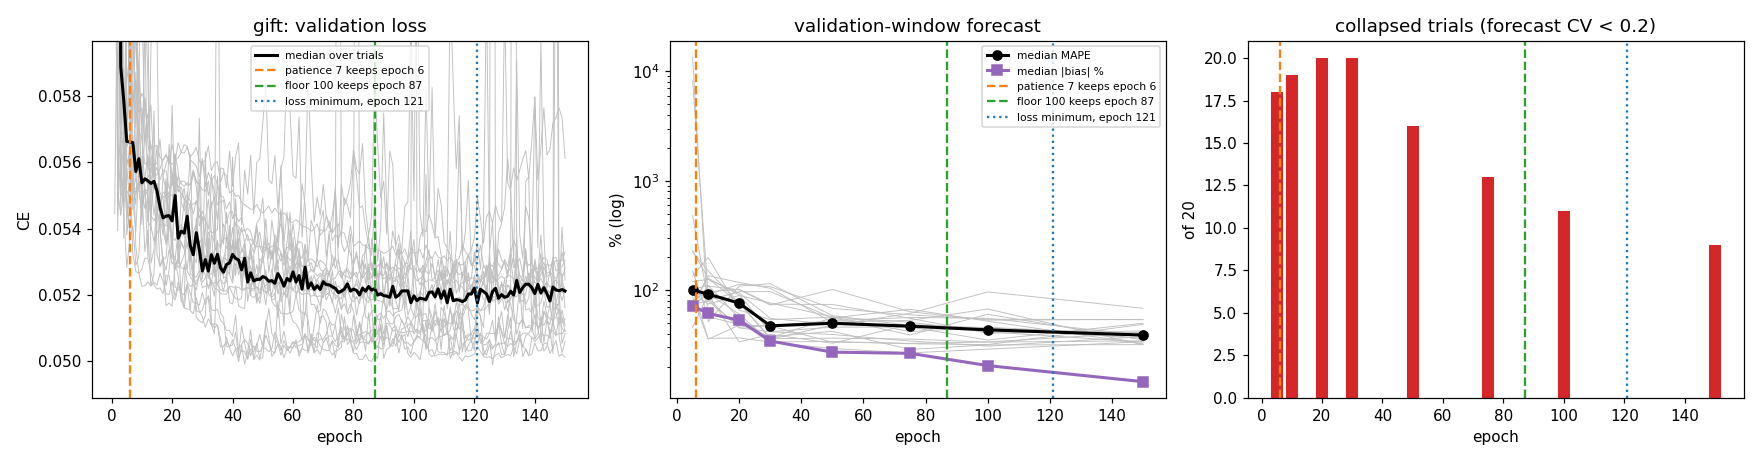
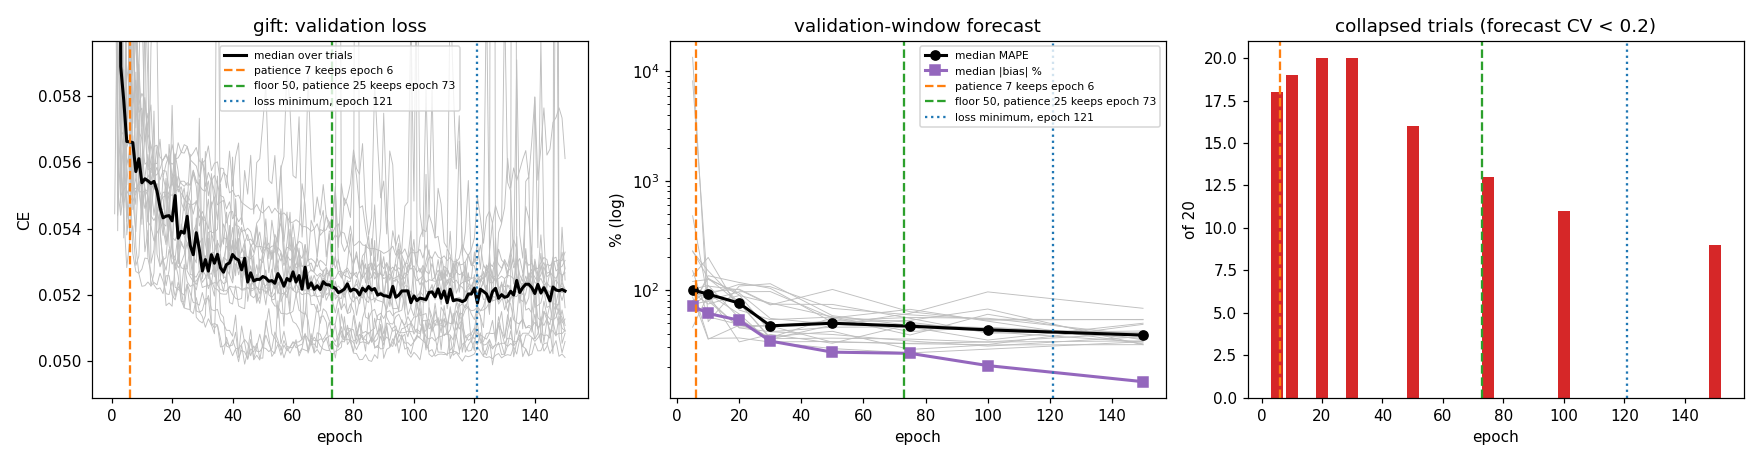
hyperparameter-search §5.2: state the stopping rule before scoring it (cheapest floor x patience ending the median run within 1% of its loss minimum, from the validation loss alone: floor 50, patience 25), then check it against the validation forecast; the earlier floor-100 pick was read off that fo

diff --git a/scripts/run_epoch_probe.py b/scripts/run_epoch_probe.py
@@ -203,7 +203,8 @@ def check_complete() -> int:
 # ---------------------------------------------------------------------------
 
 
-def replay_stopping(val: np.ndarray, floor: int = 0) -> tuple[int, int]:
+def replay_stopping(val: np.ndarray, floor: int = 0,
+                    patience: int = PATIENCE) -> tuple[int, int]:
     """(stop epoch, kept epoch), 1-based, under `fit_model`'s rule with `min_epochs=floor`."""
     best, best_epoch, waited = np.inf, 0, 0
     for e, v in enumerate(val, start=1):
@@ -211,13 +212,15 @@ def replay_stopping(val: np.ndarray, floor: int = 0) -> tuple[int, int]:
             best, best_epoch, waited = v, e, 0
         else:
             waited += 1
-        if e >= floor and waited >= PATIENCE:
+        if e >= floor and waited >= patience:
             return e, best_epoch
     return len(val), best_epoch
 
 
-# The floor the probe proposes (§5.1), drawn against the current rule in the figures.
-PROPOSED_FLOOR = 100
+# The stopping rule chosen from the validation loss alone (§5.2): the cheapest floor and
+# patience that end the median run within 1% of its own loss minimum on every panel.
+# Drawn against the current rule in the figures.
+PROPOSED_FLOOR, PROPOSED_PATIENCE = 50, 25
 
 
 def first_stable(epochs: list[int], rhos: list[float], level: float = 0.8) -> float:
@@ -293,7 +296,8 @@ def report(out_dir: Path) -> None:
 
         # Where each stopping rule would end, replayed on the recorded curves.
         kept_now = int(np.median([replay_stopping(h.val_loss.values)[1] for h in hist.values()]))
-        kept_new = int(np.median([replay_stopping(h.val_loss.values, PROPOSED_FLOOR)[1]
+        kept_new = int(np.median([replay_stopping(h.val_loss.values, PROPOSED_FLOOR,
+                                                  PROPOSED_PATIENCE)[1]
                                   for h in hist.values()]))
         own_best = int(pt.best.median())
         B = pd.DataFrame({t: r.set_index("epoch").bias_percent.abs() for t, r in roll.items()})
@@ -312,7 +316,8 @@ def report(out_dir: Path) -> None:
             a.axvline(kept_now, color="tab:orange", ls="--",
                       label=f"patience 7 keeps epoch {kept_now}")
             a.axvline(kept_new, color="tab:green", ls="--",
-                      label=f"floor {PROPOSED_FLOOR} keeps epoch {kept_new}")
+                      label=f"floor {PROPOSED_FLOOR}, patience {PROPOSED_PATIENCE} "
+                            f"keeps epoch {kept_new}")
             a.axvline(own_best, color="tab:blue", ls=":", label=f"loss minimum, epoch {own_best}")
         # The first epochs sit orders of magnitude above the rest; scale to what follows
         # them so the late differences between trials are visible.
@@ -331,6 +336,32 @@ def report(out_dir: Path) -> None:
     table = pd.DataFrame(rows).set_index("panel").T
     print(table.to_string())
     table.to_csv(out_dir / "summary.csv")
+
+    # The stopping rule from the validation loss alone (§5.2): replay every floor x
+    # patience on the recorded curves; a setting passes if, on every panel, the median run
+    # ends within 1% of its own loss minimum; choose the cheapest by epochs trained.
+    curves = {(panel, t): pd.read_csv(suite_dir(panel, t) / "history.csv").val_loss.values
+              for panel in PANELS for t in range(N_TRIALS)
+              if (suite_dir(panel, t) / "results.csv").exists()}
+    grid = []
+    for floor in (0, 30, 50, 75, 100, 150):
+        for patience in (7, 15, 25, 40):
+            row, cost = {"floor": floor, "patience": patience}, []
+            for panel in PANELS:
+                runs = [(v, replay_stopping(v, floor, patience))
+                        for (p, _), v in curves.items() if p == panel]
+                row[panel] = float(np.median([(v[kept - 1] - v.min()) / v.min() * 100
+                                              for v, (_, kept) in runs]))
+                cost += [stop for _, (stop, _) in runs]
+            row["passes"] = all(row[p] <= 1.0 for p in PANELS)
+            row["epochs trained"] = float(np.mean(cost))
+            grid.append(row)
+    grid = pd.DataFrame(grid)
+    print("\nStopping rule from the validation loss alone: % above each run's own loss minimum")
+    print(grid.round(2).to_string(index=False))
+    chosen = grid[grid.passes].sort_values("epochs trained").iloc[0]
+    print(f"cheapest passing: floor {int(chosen.floor)}, patience {int(chosen.patience)}")
+    grid.to_csv(out_dir / "stopping_rule_grid.csv", index=False)
 
     pred = pd.DataFrame(predict)
     print("\nDoes CE at epoch t predict the final validation rollout (epoch 150)?")

diff --git a/docs/hyperparameter-search.md b/docs/hyperparameter-search.md
@@ -320,12 +320,8 @@ final rollout poorly (ρ −0.2 to +0.6): forecasts reorder as training goes on.
   warm-up of 3 judges trials 20–70 epochs before their CE ranking settles, on a number
   that does not predict the forecast on two of four panels. Test 2 becomes current rule
   against no pruning; Hyperband only with `min_resource` ≥ 50.
-- **Floor (test 1): about 100 epochs on electronics, gift and multichannel.** That is
-  where the forecast stops improving and close to where the loss reaches its own best
-  (121–138), so with the floor the CE-selected epoch lands where the forecast is good.
-- **CDNOW needs less.** Its forecast is best at 30–50 and worse by 100. One floor for all
-  four panels cannot be right; test 1 should use 100 on the three two-year panels and
-  about 30 on CDNOW, or report CDNOW separately.
+- **Floor and patience (test 1): set in §5.2** by a rule on the validation loss alone,
+  which picks floor 50 with patience 25.
 
 Limits: ValendinLSTM only; 20 trials, so a single correlation carries about ±0.4; the
 rollouts are of the trained weights without the ADR-0008 refit; the archive search
@@ -352,21 +348,34 @@ before they are cited in the thesis.
 
 #### The procedure, applied
 
-1. **Pruning: off.** Its own assumption fails on the validation data.
-2. **Stopping rule from the validation loss alone.** Replaying `fit_model`'s rule on the
-   80 probe curves, patience 7 with no floor stops runs 3–7% above their own loss minimum;
-   a floor of 100 epochs with patience 7 brings every panel within 0.7%. The floor only
-   delays stopping and never forces late weights, so the epoch kept is still the one with
-   the lowest validation loss (65 on CDNOW, where the loss turns back up after that).
-3. **Check against the validation-window forecast**, still calibration data: does the rule
-   chosen on the loss land where the forecast is good?
+Each decision is a rule stated before its result is looked at, and uses calibration data
+only.
+
+1. **Pruner — rule: prune on CE only once the CE ranking of trials has settled and early
+   CE predicts the final validation forecast.** Uses the validation-loss curves and the
+   validation-window rollouts. The ranking settles at epoch 24–76, and early CE predicts
+   the final forecast on multichannel only (§5.1). **Decision: pruning off.**
+2. **Stopping rule — rule: the cheapest floor and patience under which, on every panel,
+   the median run ends within 1% of its own validation-loss minimum.** Uses the
+   validation-loss curves only: `fit_model`'s rule is replayed on the 80 recorded curves
+   for floors {0, 30, 50, 75, 100, 150} × patience {7, 15, 25, 40}, and cost is the mean
+   number of epochs trained. Patience 7 with no floor ends runs 3–7% above their minimum
+   and fails on every panel. Twelve settings pass; the cheapest is **floor 50, patience
+   25** (83 epochs per run on average). Floor 100 with patience 7, proposed earlier from
+   the forecast table, also passes (102 epochs).
+3. **Check — only afterwards — against the validation-window forecast.** Still
+   calibration data, but not used to choose.
+
+An earlier draft of this section proposed floor 100 after reading the validation-forecast
+table, then checked it against the same table. That check was not independent of the
+choice; the loss-only rule above is.
 
 #### The curves
 
 Each figure: left, the validation loss of the 20 trials (grey) and their median (black);
 middle, the median validation-window MAPE and |bias| (trials in grey); right, how many of
 the 20 trials have collapsed (forecast CV < 0.2). Dashed lines mark the median epoch kept
-by the current rule (orange) and by the floor-100 rule (green); the dotted line is the
+by the current rule (orange) and by the loss-only rule of floor 50, patience 25 (green); the dotted line is the
 median epoch of the loss minimum. Regenerate with
 `python scripts/run_epoch_probe.py --report --out docs/figures/epoch-probe`.
 
@@ -380,47 +389,47 @@ median epoch of the loss minimum. Regenerate with
 
 #### Did it work?
 
-Each rule's validation-window forecast at the epoch it keeps, medians over the 20 trials.
-The *oracle* row picks the single checkpoint with the best median validation forecast:
-the best any epoch rule could do on this window. It also uses calibration data only, but
-needs the rollouts, which the loss-based rule does not.
+Validation-window MAPE at the epoch each rule keeps, medians over the 20 trials, with the
+median epoch kept and the number of collapsed trials. The *oracle* is the single
+checkpoint with the best median validation forecast: the best any fixed-epoch rule could
+do on this window, chosen by looking at the forecast, which the loss-only rule does not.
 
-| panel | rule | epoch kept | MAPE | \|bias\| % | Spearman | collapsed of 20 |
-| --- | --- | ---: | ---: | ---: | ---: | ---: |
-| cdnow | patience 7 (current) | 12 | 65.1 | 65.1 | 0.09 | 4 |
-| | **floor 100 + patience 7** | 65 | **44.9** | **42.1** | **0.26** | **0** |
-| | oracle | 30 | 46.1 | 46.0 | 0.24 | 1 |
-| electronics | patience 7 (current) | 9 | 79.3 | 64.6 | 0.02 | 17 |
-| | **floor 100 + patience 7** | 88 | **43.7** | 28.3 | 0.05 | 14 |
-| | oracle | 100 | 45.5 | 26.1 | 0.07 | 14 |
-| gift | patience 7 (current) | 6 | 78.0 | 35.1 | 0.00 | 19 |
-| | **floor 100 + patience 7** | 87 | 46.6 | 24.5 | 0.02 | 16 |
-| | oracle | 150 | 38.8 | 14.6 | 0.09 | 9 |
-| multichannel | patience 7 (current) | 8 | 99.3 | 80.5 | −0.00 | 9 |
-| | **floor 100 + patience 7** | 87 | 63.6 | 29.8 | −0.00 | 9 |
-| | oracle | 150 | 56.4 | 28.0 | 0.03 | 6 |
+| rule | cdnow | electronics | gift | multichannel |
+| --- | --- | --- | --- | --- |
+| current: patience 7, no floor | 65.1 (epoch 12; 4 collapsed) | 79.3 (9; 17) | 78.0 (6; 19) | 99.3 (8; 9) |
+| **loss-only rule: floor 50, patience 25** | **44.4** (51; 0) | **44.2** (21; 14) | **46.0** (73; 17) | **70.2** (51; 14) |
+| also passes: patience 40, no floor | 44.4 (56; 0) | 49.4 (19; 12) | 43.5 (89; 18) | 67.4 (58; 11) |
+| also passes: floor 100, patience 7 | 44.9 (65; 0) | 43.7 (88; 14) | 46.6 (87; 16) | 63.6 (87; 9) |
+| oracle | 46.1 (epoch 30) | 45.5 (100) | 38.8 (150) | 56.4 (150) |
 
-(The forecast is scored at the latest checkpoint at or before the epoch kept, since the
-rollout was recorded at 8 epochs only.)
+The forecast is scored at the latest checkpoint at or before each trial's kept epoch (the
+rollout was recorded at 8 epochs only), so a kept epoch between checkpoints is scored a
+little early.
 
-- **Yes on CDNOW and electronics.** The rule set from the loss alone matches the oracle:
-  it closes all of the gap between the current rule and the best epoch (MAPE 65 → 45 and
-  79 → 44). On CDNOW the loss itself turns up when the model starts to over-fit, so the
-  loss-based rule stops in the right place without seeing a forecast.
-- **Mostly on gift and multichannel.** It closes 80% and 83% of the MAPE gap (78 → 47
-  against an oracle of 39; 99 → 64 against 56). The rest is training past epoch 100: the
-  forecast is still improving at 150 while the floor-100 rule keeps epoch 87, because the
-  loss has nearly flattened.
+- **CDNOW and electronics: yes.** The rule chosen from the loss alone reaches the oracle
+  (44.4 against 46.1, 44.2 against 45.5), from 65 and 79 under the current rule. On CDNOW
+  the loss turns back up when the model starts to over-fit, so a loss-based rule stops in
+  the right place without seeing a forecast.
+- **Gift: mostly.** 46.0 against an oracle of 38.8, from 78: 82% of the gap closed.
+- **Multichannel: partly.** 70.2 against 56.4, from 99: 68% of the gap closed. The loss is
+  within 1% of its minimum by epoch 51, but the forecast keeps improving to epoch 150. Here
+  the loss stops being informative before the forecast does; a tighter loss criterion
+  (0.5%) would select floor 75–100, which reaches 63.6.
+- **The rule picks a family, not a point.** Every passing setting lands within a few MAPE
+  points of the others on CDNOW, electronics and gift; on multichannel, longer is better.
+  The 1% threshold is itself a choice, and the one place the result depends on it is
+  multichannel.
 - **It does not fix customer ranking.** Spearman stays near 0 on electronics, gift and
-  multichannel under every rule, and 9–16 of 20 trials remain collapsed. Training longer
+  multichannel under every rule, and 9–18 of 20 trials remain collapsed. Training longer
   repairs the level of the forecast; ValendinLSTM without a customer-level input still
   cannot tell customers apart there (`docs/insight-training-efficiency.md` §8: the label
   is what lets it rank).
 
-**Conclusion.** For the stopping rule and the pruner, calibration data alone is enough:
-the loss says to stop no earlier than epoch 100, the loss-ranking test says not to prune
-before the curves settle, and the validation forecast confirms the result on all four
-panels. Two things remain before it can be claimed for the holdout:
+**Conclusion.** For the pruner and the stopping rule, calibration data alone gives a
+defensible answer: the CE-ranking test turns pruning off, and the loss-only rule picks
+floor 50 with patience 25. Scored afterwards on the validation forecast, that rule matches
+the best fixed epoch on CDNOW and electronics, closes most of the gap on gift and two
+thirds of it on multichannel. Two things remain before it can be claimed for the holdout:
 - **another validation window** (rolling origin): the same replay on an earlier window
   inside calibration, to show the choice is not specific to one window;
 - **one holdout test** with the settings frozen: test 1.
